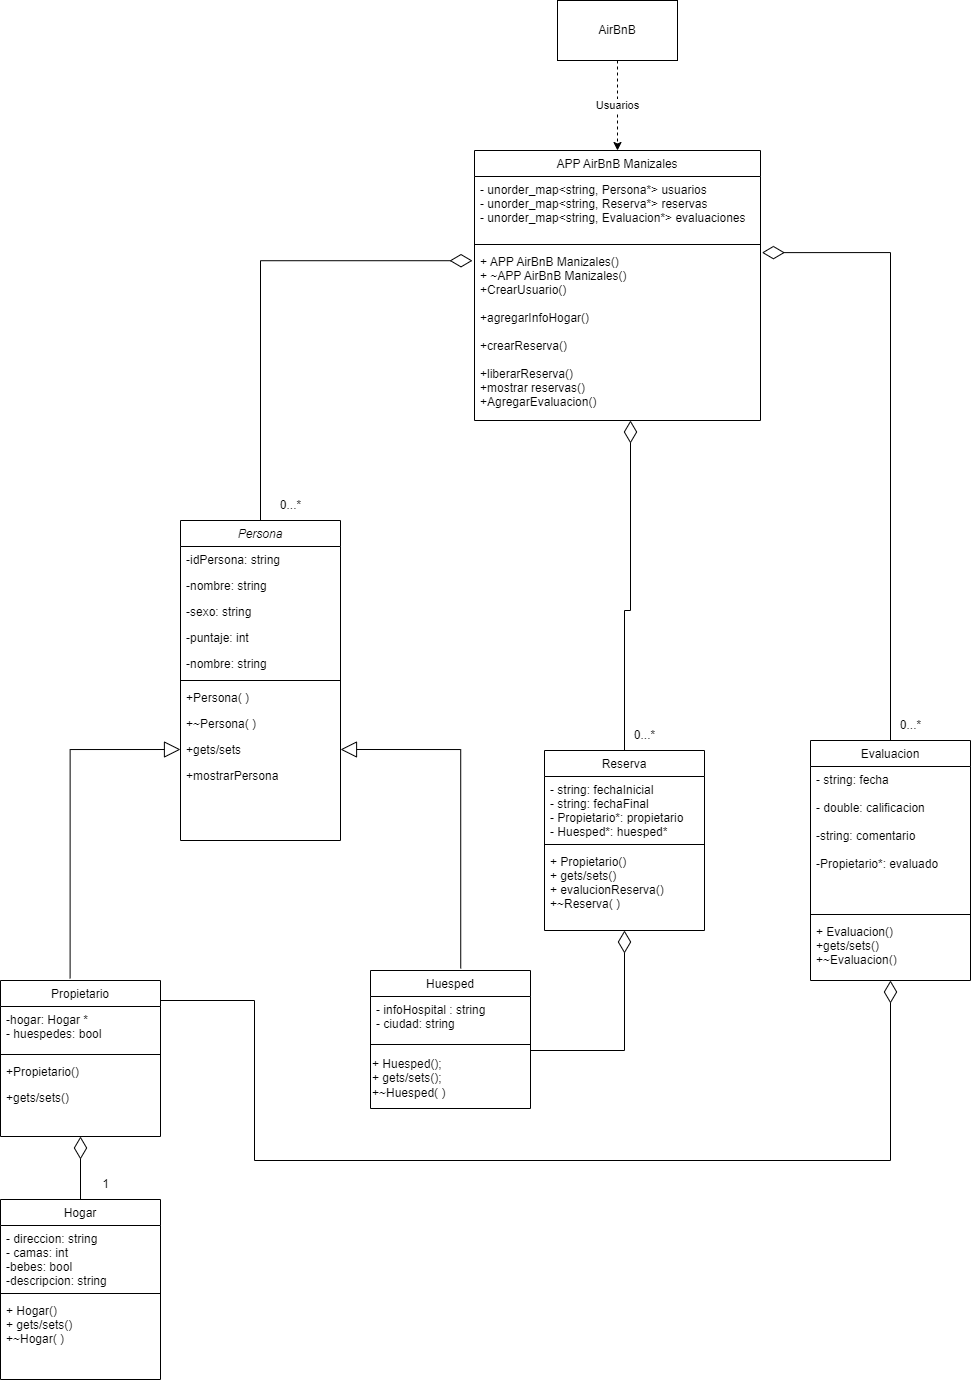
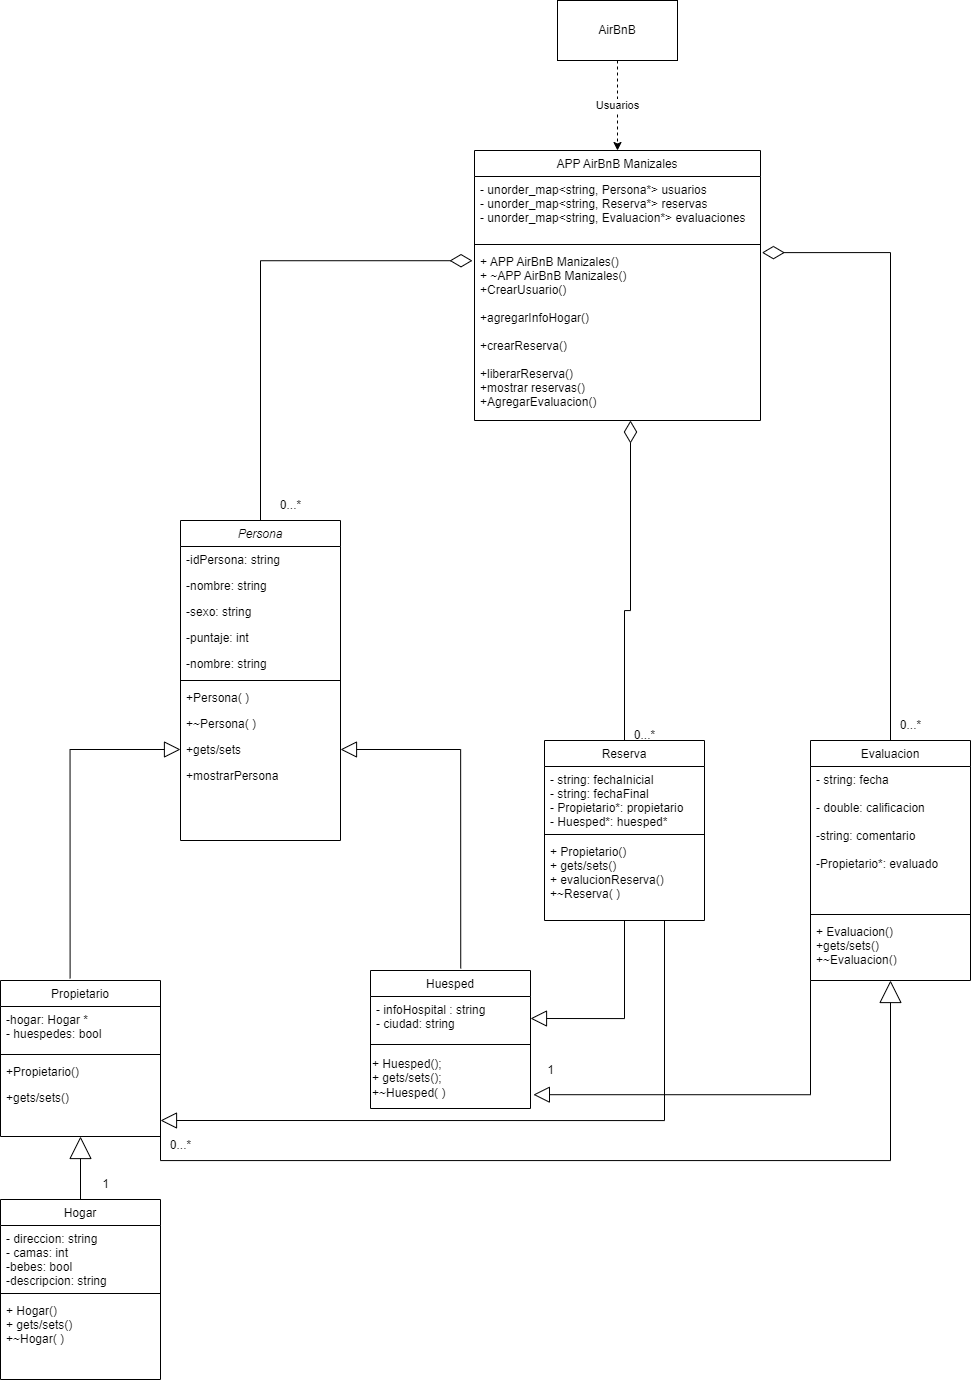
MOD: corrections UML

Changed region(s): [[0.5561, 0.5297, 0.7106, 0.6855], [0.1545, 0.8101, 0.1854, 0.8413], [0.0618, 0.8101, 0.0927, 0.8413]]

diff --git a/Administracion.h b/Administracion.h
@@ -1,0 +1,16 @@
+//
+// Created by santi on 15/09/2022.
+//
+
+#ifndef TAREA_HUESPEDES_TEAM_GIT_3_1_ADMINISTRACION_H
+#define TAREA_HUESPEDES_TEAM_GIT_3_1_ADMINISTRACION_H
+
+
+
+class Administracion {
+
+};
+
+
+
+#endif //TAREA_HUESPEDES_TEAM_GIT_3_1_ADMINISTRACION_H

diff --git a/Administracion.cpp b/Administracion.cpp
@@ -1,0 +1,5 @@
+//
+// Created by santi on 15/09/2022.
+//
+
+#include "Administracion.h"

diff --git a/main.cpp b/main.cpp
@@ -1,0 +1,3 @@
+//
+// Created by santi on 15/09/2022.
+//
